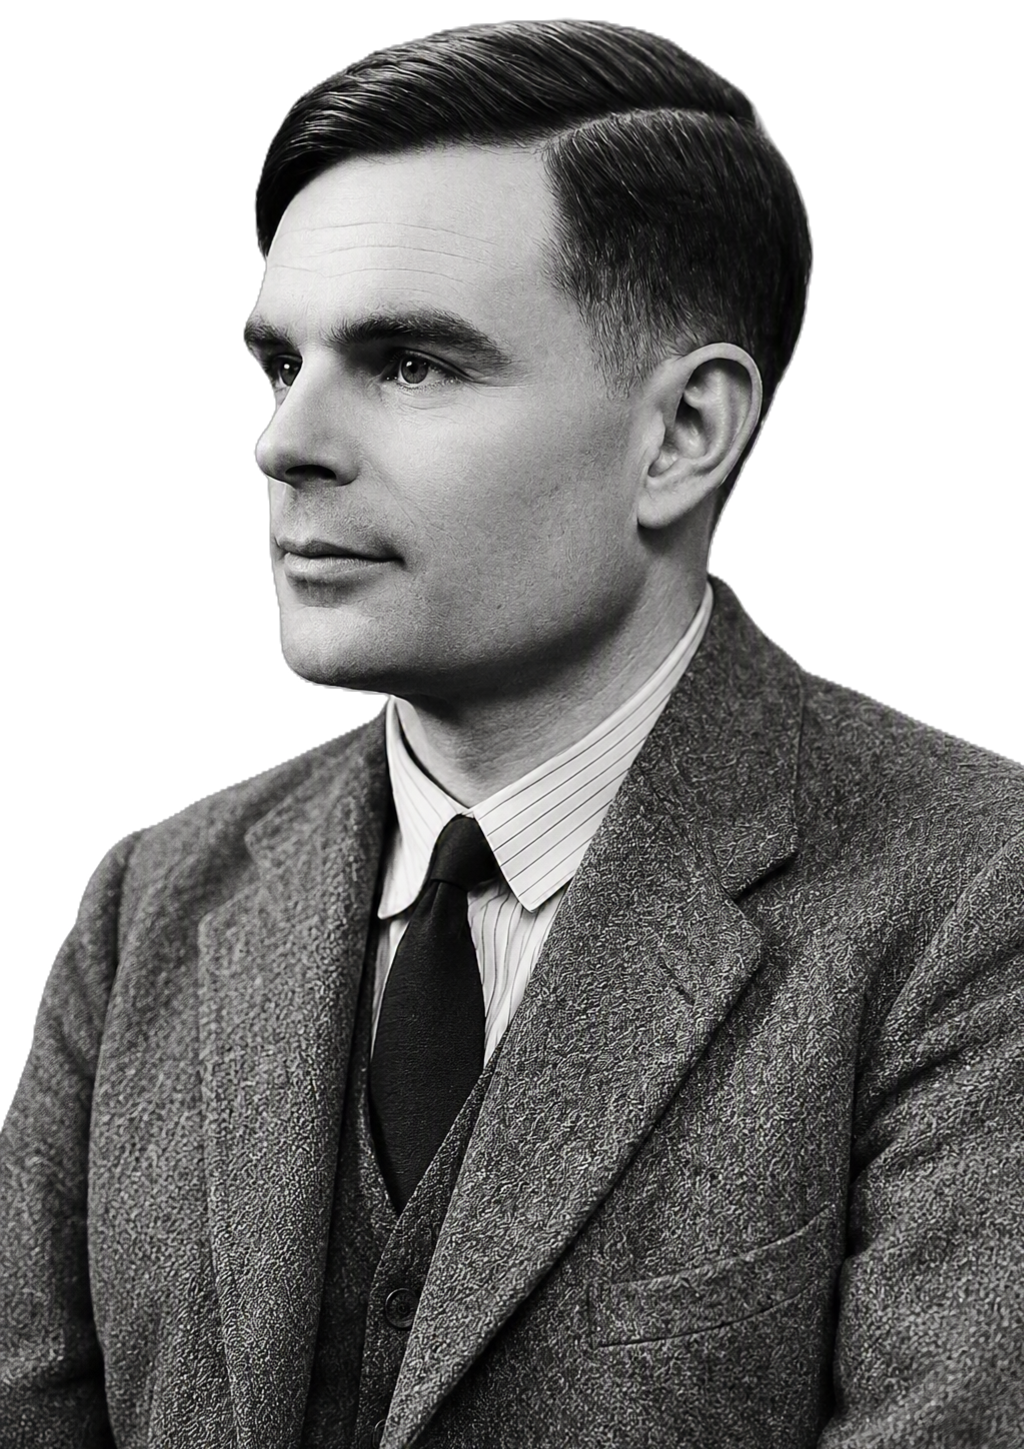
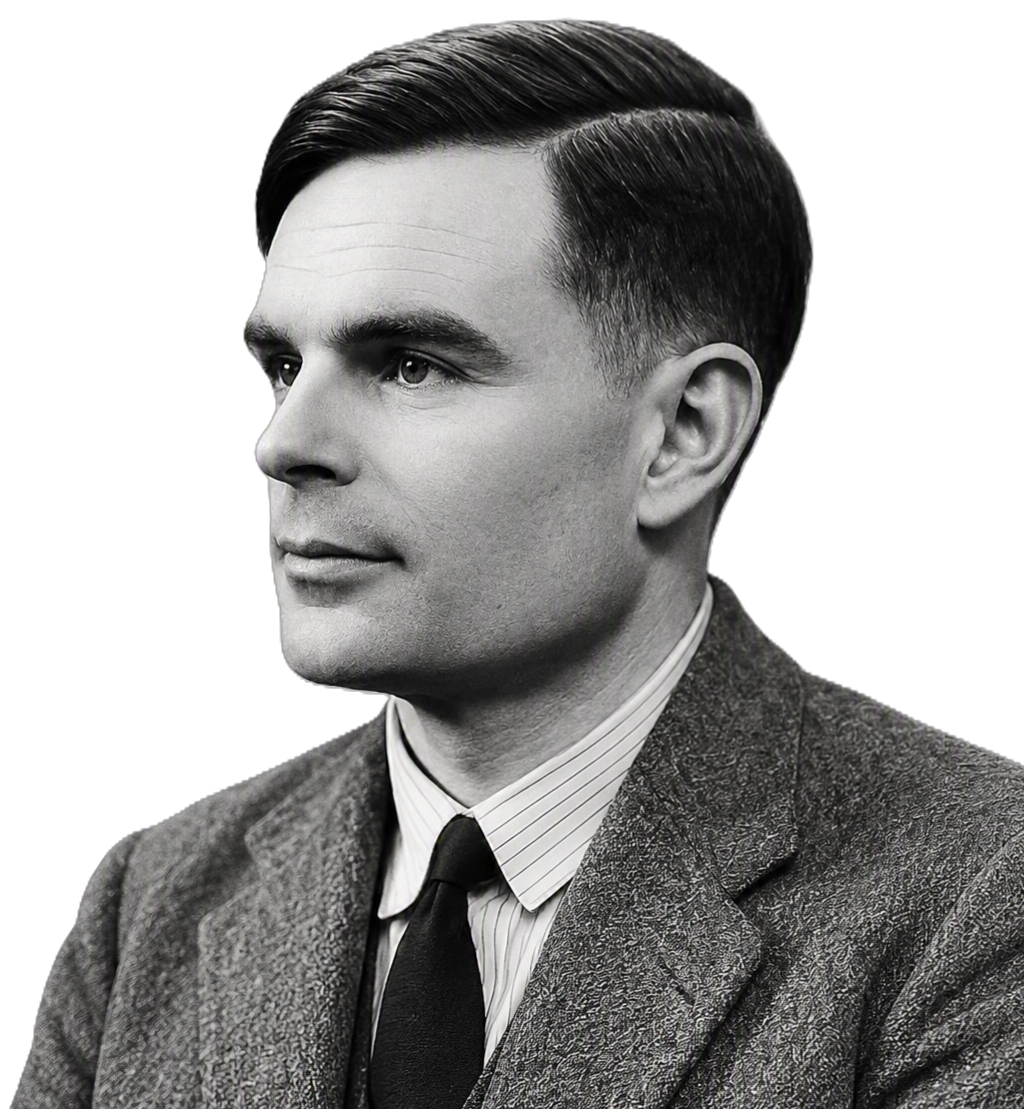
updated projects(it started to look so good!)

diff --git a/CSS/projects.css b/CSS/projects.css
@@ -77,7 +77,12 @@ main{
     margin: 15px;
     width: 30%;
     align-items: center;
-
+    transition: all 0.35s ease;
+    cursor:pointer;
+}
+.project:hover{
+    transform: translateY(-12px) scale(1.02);
+    box-shadow: rgba(0, 0, 0, 0.3) 0px 19px 38px, rgba(0, 0, 0, 0.22) 0px 15px 12px;
 }
 .text{
 margin: 20px 25px 40px;
@@ -94,15 +99,50 @@ margin: 20px 25px 40px;
     font-size: 22px;
     font-family: 'Gill Sans', 'Gill Sans MT', Calibri, 'Trebuchet MS', sans-serif;
 }
-.text .more{
+.more{
     text-decoration: none;
-    font-size: 25px;
-    border: #567cbd 2px solid;
-    color: #567cbd;
-    padding: 4px 22px;
+    display: inline-block;
+    padding: 8px 25px;
+    border: 2px solid #567cbd;
     border-radius: 5px;
-    font-family:'Gill Sans', 'Gill Sans MT', Calibri, 'Trebuchet MS', sans-serif;
+    color: #567cbd;
+    font-size: 24px;
+    transition: all .35s ease;
 }
-.more :hover{
+.more:hover{
+    background: #567cbd;
+    color: white;
+    transform: translateX(8px);
+}
+.timeline h2{
+    font-size: 40px;
+    text-align: center;
+    color: #2f4156;
+}
+.quote{
+    margin: 60px 0px;
+    display: flex;
+    justify-content: space-between;
     background-color: #2f4156;
+    border-radius:20px ;
+}
+blockquote{
+width: 50%;
+color: white;
+font-size: 30px;
+text-align: center;
+}
+.quotation{
+    color: #567cbd;
+    font-size: 80px;
+}
+blockquote .name{
+    color: #567cbd;
+    display: block;
+    text-align: center;
+}
+
+.quote img{
+    width: 250px;
+    border-bottom-right-radius: 20px;
 }

diff --git a/projects.html b/projects.html
@@ -92,9 +92,11 @@ arise through reaction-diffusion systems.</p>
             <h2>A Timeline Of Innovation</h2>
         </section>
         <section class="quote">
-            <blockquote>“Sometimes it is the people no one can imagine anything of who do the things no one can imagine.”
-― Alan Turing</blockquote>
-            <img src="images/alan-turing.png" alt="">
+            <blockquote><span class="quotation">“</span>Sometimes it is the people no one can imagine anything of who
+                 do the things no one can imagine. 
+            <span class="name">― Alan Turing</span>
+            </blockquote>
+            <img src="images/turing.png" alt="">
         </section>
     </main>
 </body>